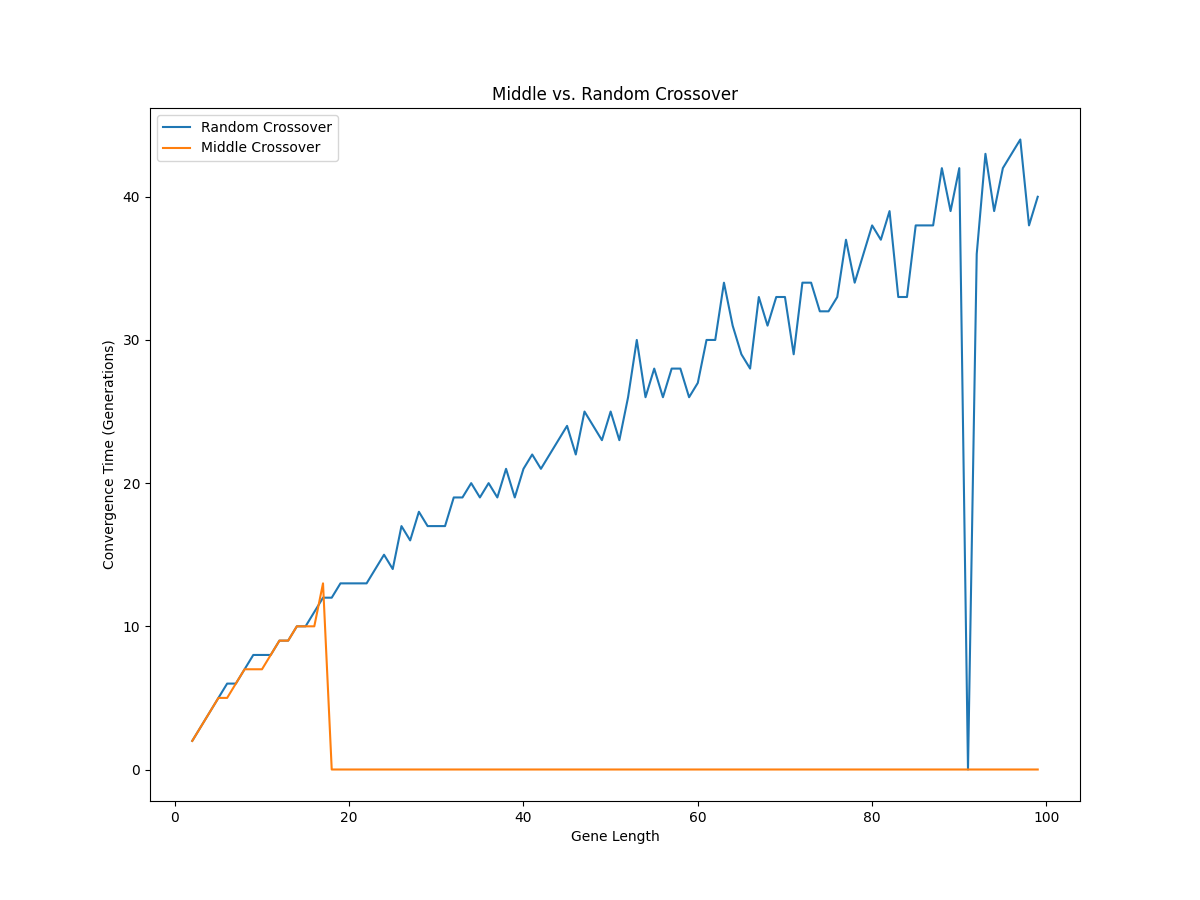
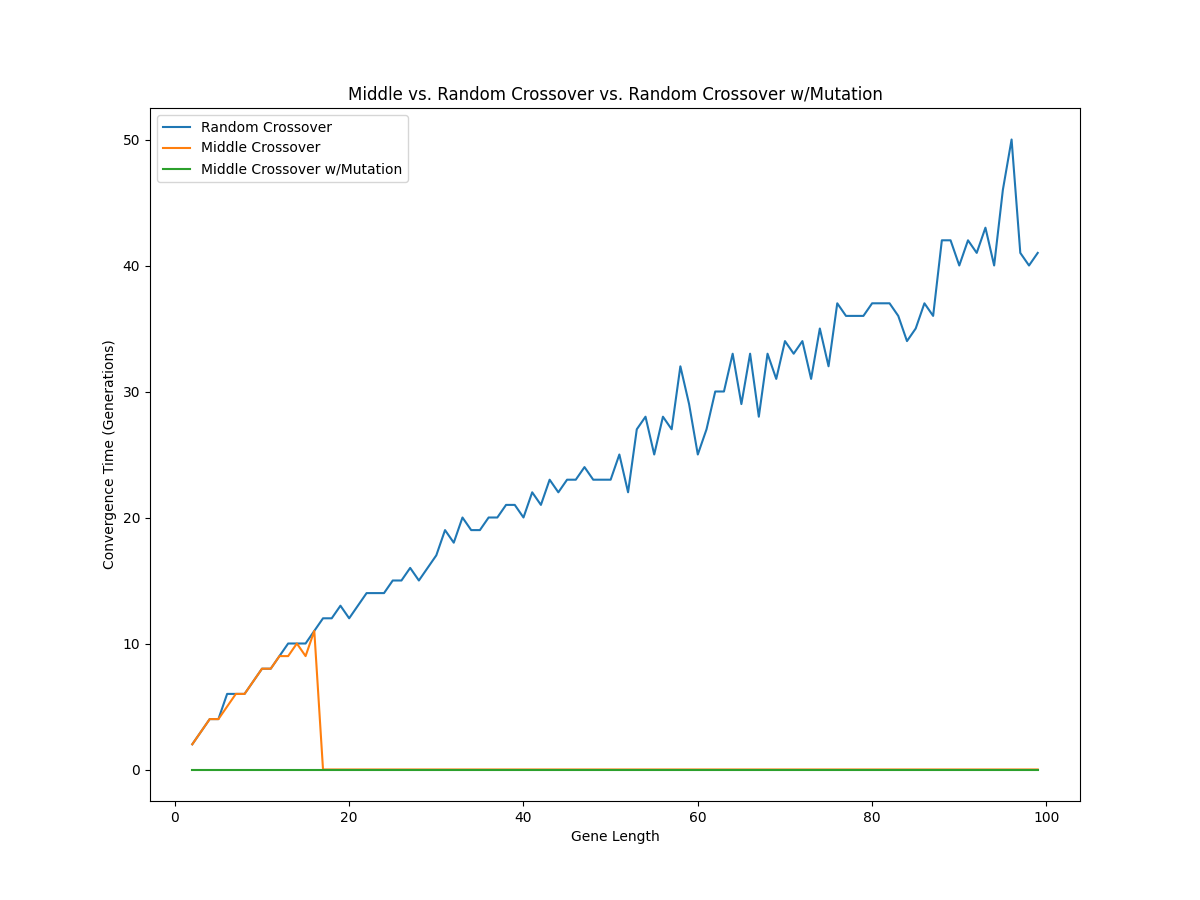
redefined defitinion of convergence to at least one perfect binary string not all

diff --git a/main.py b/main.py
@@ -11,9 +11,9 @@ from generate_charts import generate_charts
 MINIMUM_GENE_LENGTH = 2
 
 def main():
-    gene_length_to_middle_split_convergences, 
+    (gene_length_to_middle_split_convergences, 
     gene_length_to_random_split_convergences,
-    gene_length_to_random_split_mutate_convergences = {}, {}, {}
+    gene_length_to_random_split_mutate_convergences) = {}, {}, {}
 
     gene_length_low = MINIMUM_GENE_LENGTH
     gene_length_high = 100
@@ -21,22 +21,22 @@ def main():
 
     for gene_length in range(gene_length_low, gene_length_high, step_size):
         population = generate_population(POPULATION_SIZE, gene_length = gene_length)
-        perfect_population = ['1'*gene_length for _ in range(POPULATION_SIZE)]
+        perfect_chromosome = '1'*gene_length
        
         convergence_for_middle_split = genetic_evolution(population = population, 
-                                                         perfect_population = perfect_population,
+                                                         perfect_chromosome = perfect_chromosome,
                                                          gene_split_method = split_genes_middle, 
                                                          gene_length = gene_length,
                                                          mutate_children = False)
         
         convergence_for_random_split = genetic_evolution(population = population, 
-                                                         perfect_population = perfect_population,
+                                                         perfect_chromosome = perfect_chromosome,
                                                          gene_split_method = split_genes_random, 
                                                          gene_length = gene_length,
                                                          mutate_children = False)
         
         convergence_for_random_split_mutate = genetic_evolution(population = population, 
-                                                         perfect_population = perfect_population,
+                                                         perfect_chromosome = perfect_chromosome,
                                                          gene_split_method = split_genes_random, 
                                                          gene_length = gene_length,
                                                          mutate_children = True)

diff --git a/genetic_evolution.py b/genetic_evolution.py
@@ -2,10 +2,10 @@ from constants import POPULATION_SIZE
 from repopulate import repopulate
 from mutate import mutate
 
-def genetic_evolution(population, perfect_population, gene_split_method, gene_length, mutate_children: bool):
+def genetic_evolution(population, perfect_chromosome, gene_split_method, gene_length, mutate_children: bool):
     epochs, epochs_w_no_progress = 0, 0
     
-    while population != perfect_population:
+    while perfect_chromosome not in population:
         total_1s = sum(gene.count('1') for gene in population)
         
         population_by_fitness_scores = sorted(population, key = lambda gene: gene.count('1'))

diff --git a/mutate.py b/mutate.py
@@ -1,10 +1,12 @@
 from imports import choices, randint
 
 OPPOSITE_GENE_MAP = {'1' : '0', '0' : '1'}
+MUTATION_RATE = 0.1
+NON_MUTATION_RATE = 1 - MUTATION_RATE
 
 def mutate(children, gene_length):
     for i, child in enumerate(children):
-        should_mutate = choices([False, True], [.5, .5])
+        should_mutate = choices([False, True], [MUTATION_RATE, NON_MUTATION_RATE])
         
         if should_mutate:
             index_of_gene_to_mutate = randint(0, gene_length)
